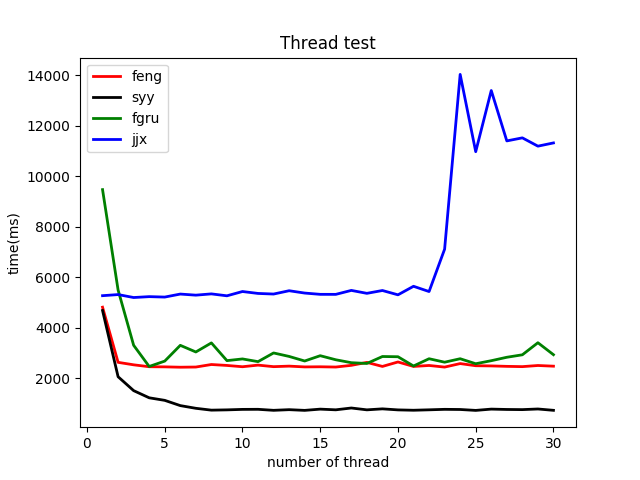
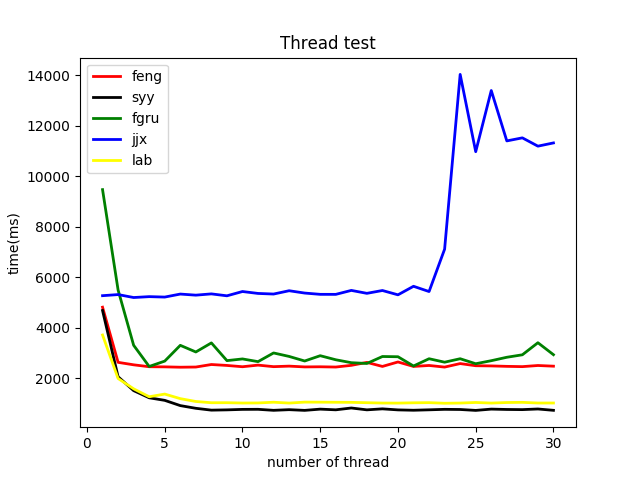
*: rebuild the lab for submission

diff --git a/Lab1/READNME.md b/Lab1/READNME.md
@@ -1,0 +1,108 @@
+# <center> lab 1 Sudoku </center>
+
+##### <center>[2019_nCoV_killers](../../README.md)</center>
+
+## 实验内容
+
+实现一个可以解决数独问题的程序，实验分为basic和advanced难度。
+
+## 成果
+
+已经实现 advanced 级别，并且验证完毕，详细见正确性验证的部分。
+
+## 输入输出
+
+### 输入
+
+1. 在程序运行时输入测试文件名
+2. 可以输入多个文件名，输入时机随意
+3. 可以输入任意大小的文件
+4. 使用 ctrl-d 结束文件输入，当结果计算完成之后会自动退出程序。
+
+### 输出
+
+默认情况下输出到屏幕
+
+## 算法
+
+选择的是dance-link算法。在后面的结果对比和分析全部使用dancing link。
+
+## 问题描述
+
+多线程编程是高性能编程的技术之一，实验 1 将针对数独求解问题比较多线
+程与单线程的性能差异、同一功能不同代码实现的性能差异以及多线程在不同硬
+件环境下的性能差异。 
+
+## 使用方式
+
+可以使用脚本`Lab1/test/test.sh`来一键式测试。详细信息在[说明文档](../test/README)中.最后运行的结果可以再`${usrid}_*.png`中看到
+
+## 实验环境
+|      | OS                                         | CPU                                 | RAM                  |
+| ---- | ------------------------------------------ | ----------------------------------- | -------------------- |
+| syy  | Ubuntu 18.04 bionic [Ubuntu on Windows 10] | Intel Core i7-7700HQ @ 8x 2.801 GHz | 7841 MiB / 12149 MiB |
+| feng | Ubuntu 18.04 bionic                        | Intel Xeon Gold 6161 @ 2x 2.2 Hz    | 1297 MiB / 3944 MiB  |
+| fgru | Ubuntu 16.04 xenial                        | Intel Core i7-8550U CPU @ 4 GHz     | 2013 MiB / 7768 MiB  |
+| fgru | Ubuntu 18.04 bionic                        | Intel Core i7-7500U @ 4x 2.904 GHz  | 1537 MiB / 6071 MiB  |
+| jjx  | Ubuntu 18.04 bionic                        | Intel Core i5-7200U @ 2.712 GHz     | 969 MiB / 1894 MiB   |
+
+*注：如果未说明，测试结果顺序也按此表格顺序列出。*
+
+
+## 算法
+
+本实验采用的是dancing link算法
+
+## 测试
+
+### 正确性测试
+
+使用老师的代码输出标准答案，用我们的代码输出答案后使用diff来测试不同
+
+1. 单文件小于100M，标准答案和我们的答案没有任何区别
+2. 多文件的情况其中有测试文件达到**1g+**,标准答案的按文件顺序整合之后和我们的答案没有任何区别
+3. 在多文件测试的时候由于输出太快了，直接输出不行。需要把输出重定向之后再输入文件名，发现可以任何时间输入并且结果与标准答案一致。
+
+### 性能分析
+
+#### 输出方式
+
+<img src="./doc/test1.png" alt="test1" style="zoom: 70%;" />
+
+*图一：在 feng 的机器中，将结果输出到屏幕或者重定向到文件，随着题目数量的增长，运行时间所产生的变化，其中横坐标是问题数量。*
+
+看到直接输出到屏幕要比输出到文件中更快，可能是因为输出到disk要慢一点的缘故。
+
+#### 线程数
+
+<img src="./doc/test2.png" alt="test2" style="zoom:70%;" />
+
+*图二：在不同机器中，使用不同数量的线程进行题目的求解所需要的时间，这里的线程不包含输入输出线程*
+
+本组的线程还加入了一点点负载均衡，保证每个线程都会**获得相对公平的压力**。
+
+可以看到，大部分的机器，随着线程数量多的增加，运行时间不断减少，当到一定范围的时候出现拐点，然后时间趋于一个稳定状态。此拐点大致与机器的核个数相对应。jjx 的实验结果，则相反。
+
+jjx的机器的实验结果相对反常，出现这个现象的原因：只有一个cpu核，所以随着线程增加，线程间的切换带来的开销不可忽略。所以反而效果越不好。
+
+#### 读入块
+
+<img src="./doc/test3.png" alt="test3" style="zoom:70%;" />
+
+*图三：在不同机器的实验环境下，一次性从文件中读入问题的个数与运行时间的关系，横坐标是题目数量*
+
+这里的读入块有一个问题，就是如果和测试文件的大小吻合的比较好，则比较表现优秀。如果和测试文件大小吻合的不太好会稍微影响性能，但是都是在**每个问题平均影响在± 0.002ms左右所**以不是很大的问题。
+
+同时可以看到由于内存的频率不同，所以每个人机器的表现不同。其中syy的内存是两条内存条构成了双通道，所以会比其他人快很多。
+
+#### 加速比
+
+<img src="./doc/Speedup_ratio.png" alt="SpeedUp" style="zoom:70%;" />
+
+*图四：在不同机器环境下，运行多线程的解数独程序与实验提供的默认版本相比，在不同问题规模下的加速比。横坐标是题目数量*
+
+可以看到在问题规模小的时候问题数越多加速比越大，在问题规模增大到一定程度的时候发现加速比会下降。
+
+可以看到(syy、lab)的加速比相近，(feng、fgru)相近。但是(syy、lab)和(feng、fgru)却有差异的原因分析为：(syy、lab)的物理核较多，在多线程下加速确实明显，所以多线程成为了性能突破的原因。而相对的(feng、fgru)的物理核心数目较少，所以多线程带来的收益不是很好。想要去优化的话需要对每个线程内操作流程进行进一步的优化才能提升更多。
+
+另，由于jjx的机器是虚拟机，并且由于资源的紧缺而导致她仅仅分配了2g内存和一个cpu核。所以多线程由于线程切换带来的开销很大，并不能实际的并行从出现加速比无法超过1.

diff --git a/Lab1/doc/Report.md b/Lab1/doc/Report.md
@@ -1,0 +1,108 @@
+# <center> lab 1 Sudoku </center>
+
+##### <center>[2019_nCoV_killers](../../README.md)</center>
+
+## 实验内容
+
+实现一个可以解决数独问题的程序，实验分为basic和advanced难度。
+
+## 成果
+
+已经实现 advanced 级别，并且验证完毕，详细见正确性验证的部分。
+
+## 输入输出
+
+### 输入
+
+1. 在程序运行时输入测试文件名
+2. 可以输入多个文件名，输入时机随意
+3. 可以输入任意大小的文件
+4. 使用 ctrl-d 结束文件输入，当结果计算完成之后会自动退出程序。
+
+### 输出
+
+默认情况下输出到屏幕
+
+## 算法
+
+选择的是dance-link算法。在后面的结果对比和分析全部使用dancing link。
+
+## 问题描述
+
+多线程编程是高性能编程的技术之一，实验 1 将针对数独求解问题比较多线
+程与单线程的性能差异、同一功能不同代码实现的性能差异以及多线程在不同硬
+件环境下的性能差异。 
+
+## 使用方式
+
+可以使用脚本`Lab1/test/test.sh`来一键式测试。详细信息在[说明文档](../test/README)中.最后运行的结果可以再`${usrid}_*.png`中看到
+
+## 实验环境
+|      | OS                                         | CPU                                 | RAM                  |
+| ---- | ------------------------------------------ | ----------------------------------- | -------------------- |
+| syy  | Ubuntu 18.04 bionic [Ubuntu on Windows 10] | Intel Core i7-7700HQ @ 8x 2.801 GHz | 7841 MiB / 12149 MiB |
+| feng | Ubuntu 18.04 bionic                        | Intel Xeon Gold 6161 @ 2x 2.2 Hz    | 1297 MiB / 3944 MiB  |
+| fgru | Ubuntu 16.04 xenial                        | Intel Core i7-8550U CPU @ 4 GHz     | 2013 MiB / 7768 MiB  |
+| fgru | Ubuntu 18.04 bionic                        | Intel Core i7-7500U @ 4x 2.904 GHz  | 1537 MiB / 6071 MiB  |
+| jjx  | Ubuntu 18.04 bionic                        | Intel Core i5-7200U @ 2.712 GHz     | 969 MiB / 1894 MiB   |
+
+*注：如果未说明，测试结果顺序也按此表格顺序列出。*
+
+
+## 算法
+
+本实验采用的是dancing link算法
+
+## 测试
+
+### 正确性测试
+
+使用老师的代码输出标准答案，用我们的代码输出答案后使用diff来测试不同
+
+1. 单文件小于100M，标准答案和我们的答案没有任何区别
+2. 多文件的情况其中有测试文件达到**1g+**,标准答案的按文件顺序整合之后和我们的答案没有任何区别
+3. 在多文件测试的时候由于输出太快了，直接输出不行。需要把输出重定向之后再输入文件名，发现可以任何时间输入并且结果与标准答案一致。
+
+### 性能分析
+
+#### 输出方式
+
+<img src="test1.png" alt="test1" style="zoom: 70%;" />
+
+*图一：在 feng 的机器中，将结果输出到屏幕或者重定向到文件，随着题目数量的增长，运行时间所产生的变化，其中横坐标是问题数量。*
+
+看到直接输出到屏幕要比输出到文件中更快，可能是因为输出到disk要慢一点的缘故。
+
+#### 线程数
+
+<img src="test2.png" alt="test2" style="zoom:70%;" />
+
+*图二：在不同机器中，使用不同数量的线程进行题目的求解所需要的时间，这里的线程不包含输入输出线程*
+
+本组的线程还加入了一点点负载均衡，保证每个线程都会**获得相对公平的压力**。
+
+可以看到，大部分的机器，随着线程数量多的增加，运行时间不断减少，当到一定范围的时候出现拐点，然后时间趋于一个稳定状态。此拐点大致与机器的核个数相对应。jjx 的实验结果，则相反。
+
+jjx的机器的实验结果相对反常，出现这个现象的原因：只有一个cpu核，所以随着线程增加，线程间的切换带来的开销不可忽略。所以反而效果越不好。
+
+#### 读入块
+
+<img src="test3.png" alt="test3" style="zoom:70%;" />
+
+*图三：在不同机器的实验环境下，一次性从文件中读入问题的个数与运行时间的关系，横坐标是题目数量*
+
+这里的读入块有一个问题，就是如果和测试文件的大小吻合的比较好，则比较表现优秀。如果和测试文件大小吻合的不太好会稍微影响性能，但是都是在**每个问题平均影响在± 0.002ms左右所**以不是很大的问题。
+
+同时可以看到由于内存的频率不同，所以每个人机器的表现不同。其中syy的内存是两条内存条构成了双通道，所以会比其他人快很多。
+
+#### 加速比
+
+<img src="Speedup_ratio.png" alt="SpeedUp" style="zoom:70%;" />
+
+*图四：在不同机器环境下，运行多线程的解数独程序与实验提供的默认版本相比，在不同问题规模下的加速比。横坐标是题目数量*
+
+可以看到在问题规模小的时候问题数越多加速比越大，在问题规模增大到一定程度的时候发现加速比会下降。
+
+可以看到(syy、lab)的加速比相近，(feng、fgru)相近。但是(syy、lab)和(feng、fgru)却有差异的原因分析为：(syy、lab)的物理核较多，在多线程下加速确实明显，所以多线程成为了性能突破的原因。而相对的(feng、fgru)的物理核心数目较少，所以多线程带来的收益不是很好。想要去优化的话需要对每个线程内操作流程进行进一步的优化才能提升更多。
+
+另，由于jjx的机器是虚拟机，并且由于资源的紧缺而导致她仅仅分配了2g内存和一个cpu核。所以多线程由于线程切换带来的开销很大，并不能实际的并行从出现加速比无法超过1.
